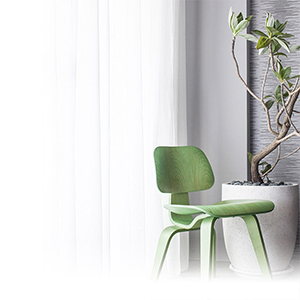
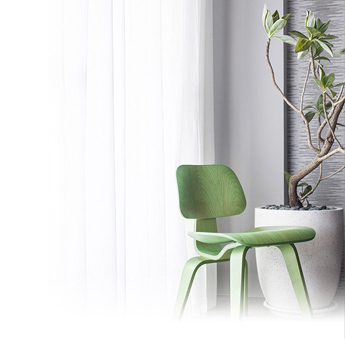
Edit.

diff --git a/resource/site/css/main.css b/resource/site/css/main.css
@@ -1460,6 +1460,8 @@ p.ST {
 	margin:0;
 	padding:0;
 	background:#fff url(../images/about/bg.jpg) no-repeat;
+	background-size: 100%;
+	-moz-background-size: 100%;
 }
 
 #ALLBCENT #RIGHTC #TOPIMA #TOPTITLEA {
@@ -3008,6 +3010,8 @@ p.ST {
 			font-size:.8em;
 			color:#828282;
 			padding:100px 0 10px 0;
+			padding-left: 10px;
+			padding-right: 10px;
 			}
 
 
@@ -3051,7 +3055,7 @@ p.ST {
 		#ALLBCENT #RIGHTC  #bgtypebox {
 			width:100%;
 			height:100%;
-			padding:0;
+			padding:0 10px 0 10px;
 			}
 
 		#ALLBCENT #RIGHTC .ACBOX {
@@ -3070,6 +3074,7 @@ p.ST {
 			background-repeat:repeat-x;
 			*/
 			border-left:5px solid #2c3238;
+			margin-left: 19px;
 		}
 
 		.absmtitle {
@@ -3078,7 +3083,7 @@ p.ST {
 			color:#2c3238;
 			font-size:1em;
 			line-height:30px;
-			padding:0 10px 0 10px;
+			padding: 1px 0 0 10px;
 			}
 
 		.sercgrea {

diff --git a/application/views/content/site/abouts/index/content.scss b/application/views/content/site/abouts/index/content.scss
@@ -38,10 +38,42 @@
         }
         .c {
           text-align: center;
-          font-size: 16px;
           width: $w;
         }
       }
     }
   }  
+}
+
+@media screen and (min-width: 0px) and (max-width: 736px) {
+  .c {
+    font-size: 16px;
+  }
+}
+
+@media screen and (min-width: 737px) {
+  #ALLBCENT {
+    #RIGHTC {
+      #TOPIMA {
+        .t {
+          $w: 200px;
+          .l, .c {
+            float: left;
+            display: inline-block;
+          }
+          .l {
+            height: 1px;
+            background-color: rgba(37, 44, 50, 1);
+            margin-top: 15px;
+            width: calc(50% - #{$w / 2});
+          }
+          .c {
+            text-align: center;
+            font-size: 32px;
+            width: $w;
+          }
+        }
+      }
+    }
+  }
 }

diff --git a/application/views/content/site/abouts/index/content.css b/application/views/content/site/abouts/index/content.css
@@ -60,6 +60,32 @@
 /* line 39, content.scss */
 #ALLBCENT #RIGHTC #TOPIMA .t .c {
   text-align: center;
-  font-size: 16px;
   width: 100px;
+}
+
+@media screen and (min-width: 0px) and (max-width: 736px) {
+  /* line 49, content.scss */
+  .c {
+    font-size: 16px;
+  }
+}
+@media screen and (min-width: 737px) {
+  /* line 60, content.scss */
+  #ALLBCENT #RIGHTC #TOPIMA .t .l, #ALLBCENT #RIGHTC #TOPIMA .t .c {
+    float: left;
+    display: inline-block;
+  }
+  /* line 64, content.scss */
+  #ALLBCENT #RIGHTC #TOPIMA .t .l {
+    height: 1px;
+    background-color: #252c32;
+    margin-top: 15px;
+    width: calc(50% - 100px);
+  }
+  /* line 70, content.scss */
+  #ALLBCENT #RIGHTC #TOPIMA .t .c {
+    text-align: center;
+    font-size: 32px;
+    width: 200px;
+  }
 }
